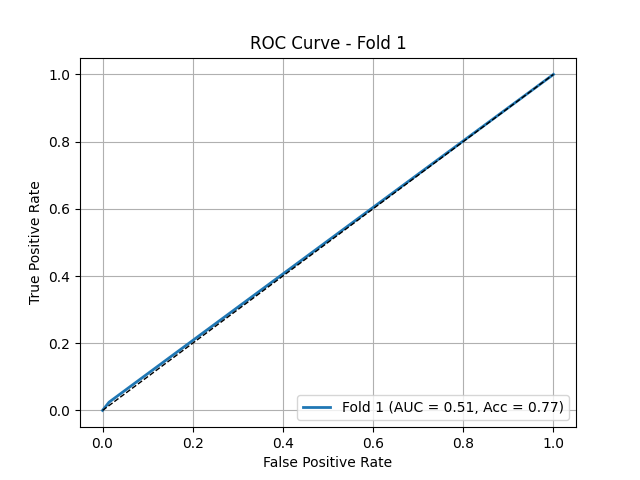
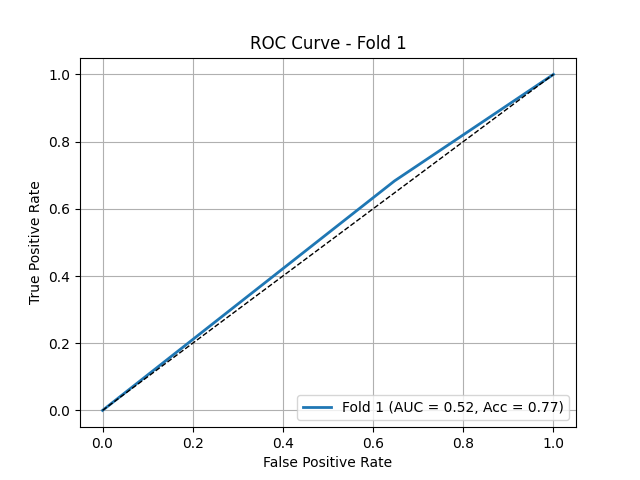
checking model why not working

diff --git a/fusion_models.py b/fusion_models.py
@@ -255,7 +255,7 @@ class PatchEmbed(nn.Module):
         return x
     
 class ThreeModalTransformerClassifier(nn.Module):
-    def __init__(self, img_size=448, patch_size=32, embed_dim=256, num_heads=4, num_layers=6, num_classes=8, common_root_patcher = False):
+    def __init__(self, img_size=448, patch_size=32, embed_dim=256, num_heads=4, num_layers=6, num_classes=8, dropout = 0.1, common_root_patcher = False):
         super().__init__()
 
         self.sdf_model = SDFModel()
@@ -280,6 +280,7 @@ class ThreeModalTransformerClassifier(nn.Module):
         
         # Positional embeddings
         self.pos_embed = nn.Parameter(torch.randn(1, 1 + 3 * self.patch_dim, embed_dim))
+        self.dropout = nn.Dropout(dropout)
         
         # Modality token embeddings (added per patch token depending on source)
         self.modality_tokens = nn.Parameter(torch.randn(3, 1, embed_dim))  # 0=SO2, 1=THb, 2=US
@@ -294,7 +295,7 @@ class ThreeModalTransformerClassifier(nn.Module):
             nn.Linear(embed_dim, num_classes)
         )
 
-        self.loss_fn = nn.BCEWithLogitsLoss(pos_weight=torch.tensor([3.0]))
+        self.loss_fn = nn.BCEWithLogitsLoss(pos_weight=torch.tensor([10.0]))
 
     def forward(self, x):  #so2, thb): #, us):
 
@@ -336,6 +337,7 @@ class ThreeModalTransformerClassifier(nn.Module):
 
         # 4. Add positional embedding
         x += self.pos_embed[:, :x.size(1), :]
+        x = self.dropout(x) if self.training else x  # Apply dropout only during training
 
         # 5. Transformer encoding
         x = self.transformer(x)

diff --git a/train_fusion_model.py b/train_fusion_model.py
@@ -70,7 +70,7 @@ for fold in range(k_fold):
     #                              encoder_weight_path = r"checkpoints\normtverskyloss_binary_segmentation\a56e77a\best-checkpoint-epoch=77-validation\loss=0.2544.ckpt", 
     #                              sdf_model_path= r"checkpoints\deeplabv3_sdf_randomcrop\model_20250711_201243\epoch_84",
     #                              radiomics= False).to(device)
-    model = ThreeModalTransformerClassifier(num_classes = 1, common_root_patcher= True).to(device)
+    model = ThreeModalTransformerClassifier(num_layers= 4, num_classes = 1, common_root_patcher= True).to(device)
     #optimizer = torch.optim.Adam(model.parameters(), lr=5e-5, weight_decay=1e-5)
     optimizer = torch.optim.AdamW(model.parameters(), lr=5e-4, weight_decay=1e-2)
     scheduler = CosineAnnealingWarmRestarts(optimizer, T_0=10, T_mult=2, eta_min=1e-6)
